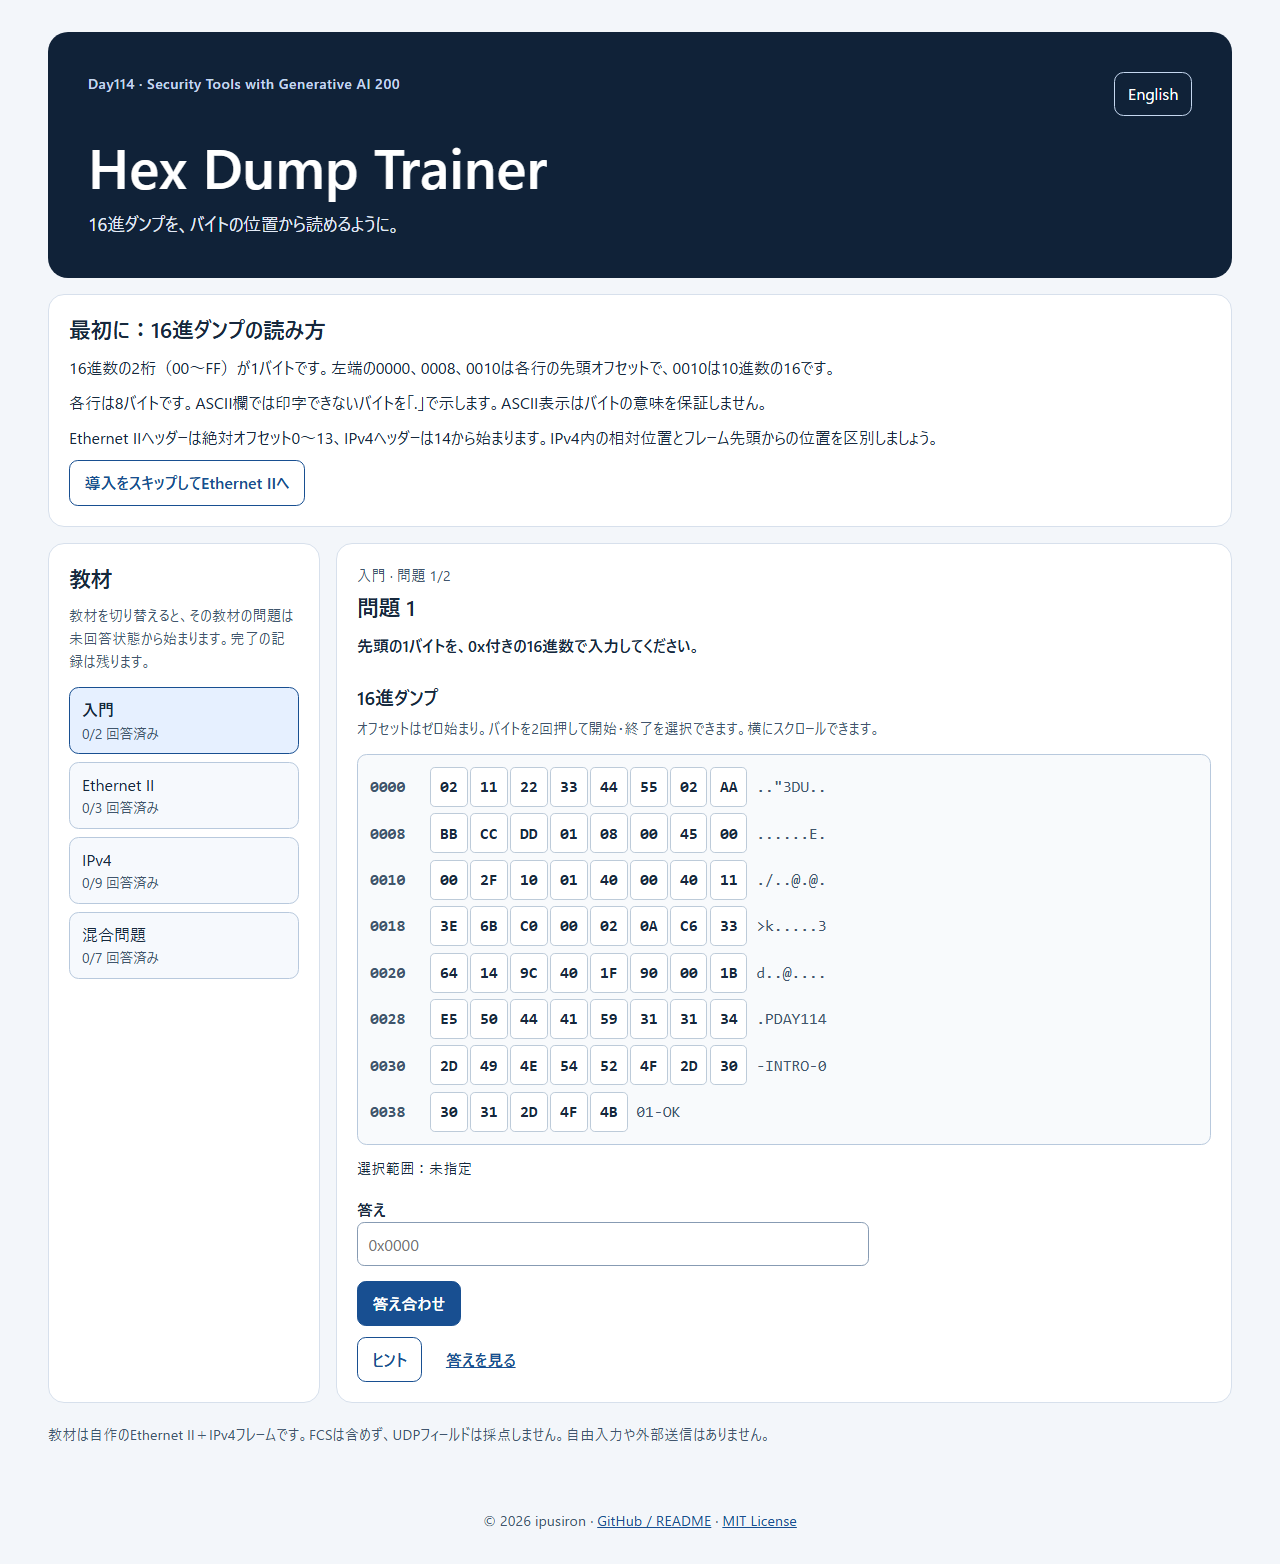
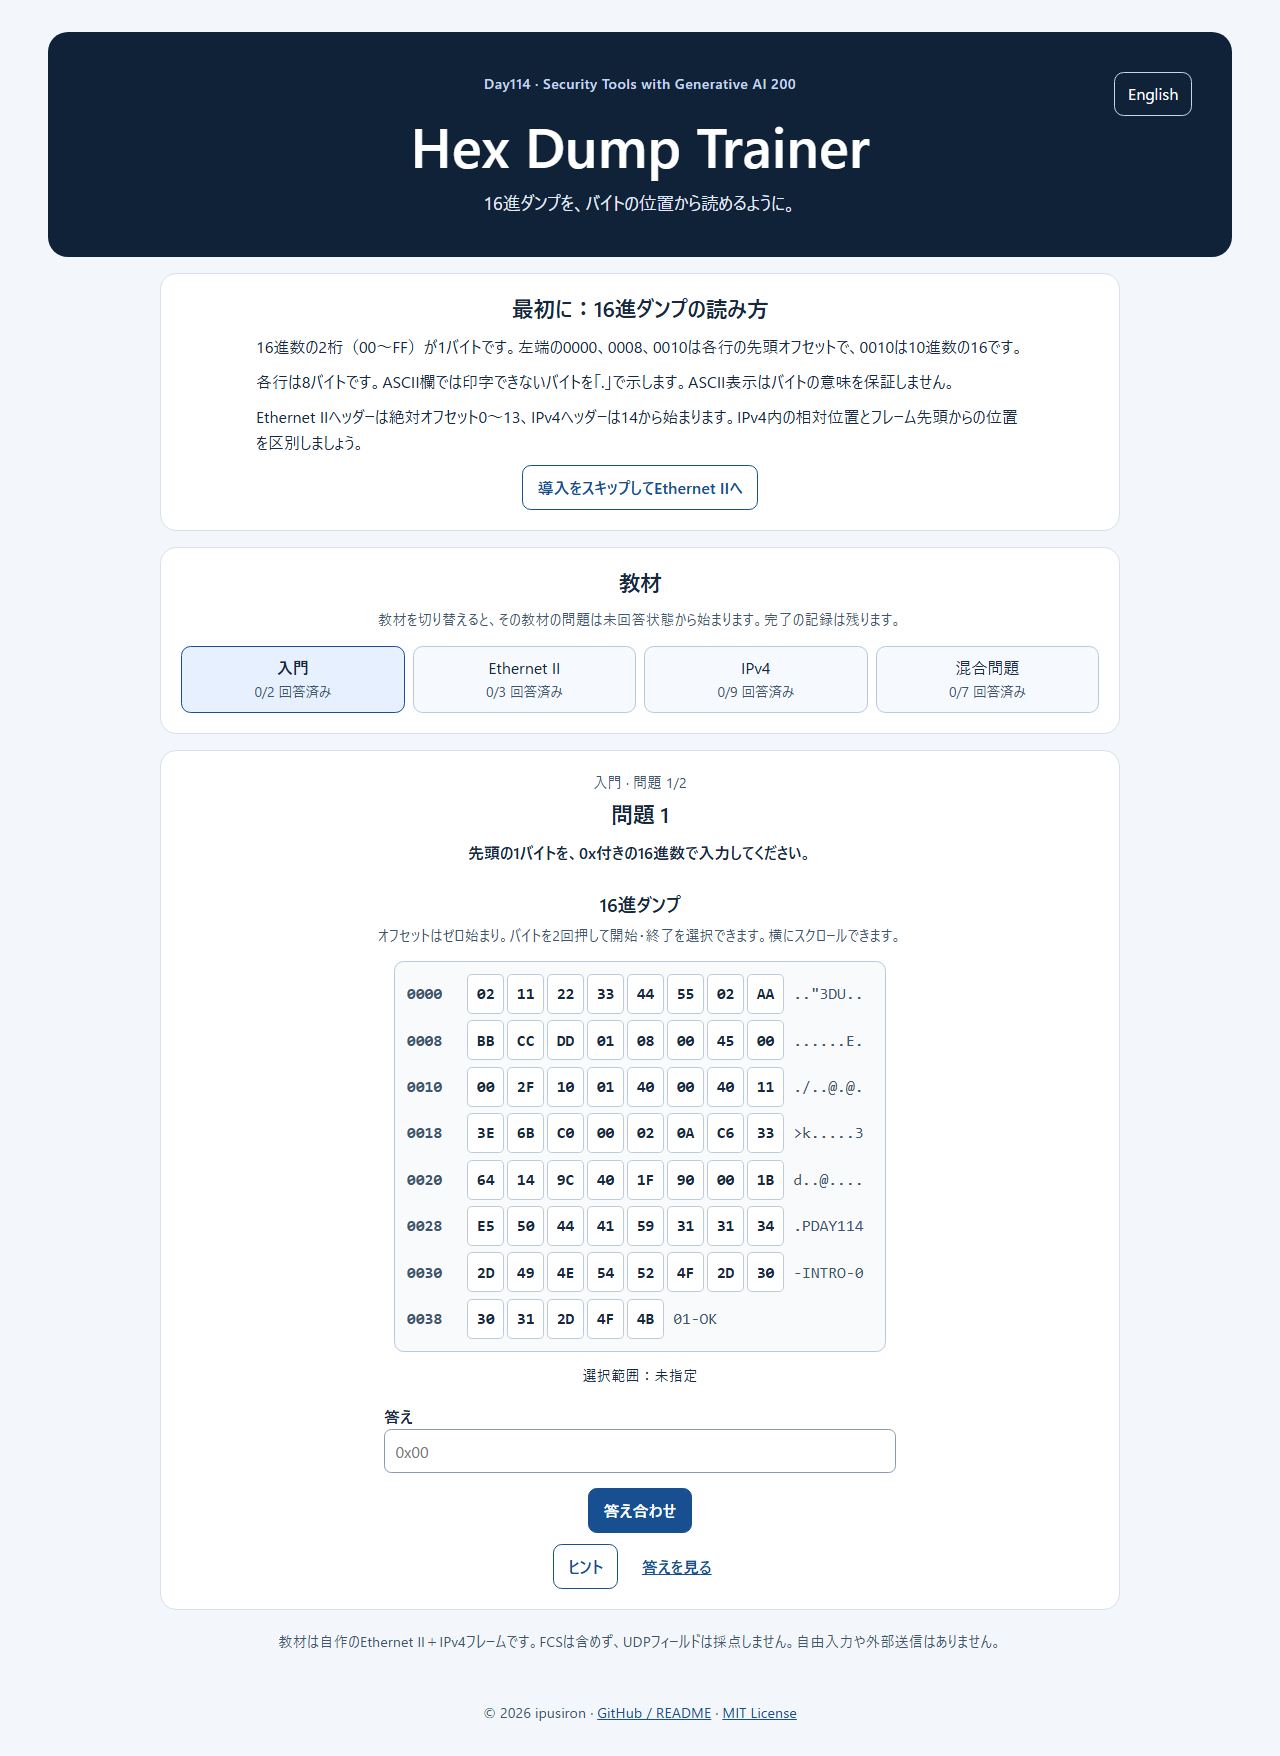
画面の中央軸を揃える

diff --git a/style.css b/style.css
@@ -57,13 +57,12 @@ a:focus-visible, button:focus-visible, input:focus-visible, .dump:focus-visible 
   border-radius: 1.25rem;
   background: #102238;
   color: #fff;
+  text-align: center;
 }
 
 .hero-top {
-  display: flex;
-  flex-wrap: wrap;
-  align-items: flex-start;
-  justify-content: space-between;
+  display: grid;
+  justify-items: center;
   gap: 0.75rem;
   margin-bottom: 1.25rem;
 }
@@ -103,7 +102,12 @@ h1 {
 }
 
 .guide {
-  margin-top: 1rem;
+  margin: 1rem auto 0;
+  text-align: center;
+}
+
+.guide, .workspace, .scope-note {
+  max-width: 60rem;
 }
 
 .panel {
@@ -121,13 +125,19 @@ h1 {
 }
 
 .guide p {
-  margin-bottom: 0.6rem;
+  max-width: 48rem;
+  margin: 0 auto 0.6rem;
+  text-align: left;
 }
 
 .workspace {
   display: grid;
   gap: 1rem;
-  margin-top: 1rem;
+  margin: 1rem auto 0;
+}
+
+.lessons, .exercise {
+  text-align: center;
 }
 
 .small-note {
@@ -149,7 +159,7 @@ h1 {
   border-radius: 0.6rem;
   background: #f6f9fd;
   color: #17283c;
-  text-align: left;
+  text-align: center;
 }
 
 .lesson-button[aria-current="true"] {
@@ -184,12 +194,15 @@ h1 {
 }
 
 .dump {
+  width: fit-content;
   max-width: 100%;
+  margin: 0 auto;
   overflow-x: auto;
   padding: 0.75rem;
   border: 1px solid #b8c9dd;
   border-radius: 0.6rem;
   background: #f8fafc;
+  text-align: left;
 }
 
 .dump-row {
@@ -264,12 +277,14 @@ h1 {
   display: grid;
   gap: 0.75rem;
   max-width: 32rem;
+  margin: 0 auto;
 }
 
 .range-fields label, .value-field label {
   display: grid;
   gap: 0.25rem;
   font-weight: 600;
+  text-align: left;
 }
 
 input {
@@ -284,6 +299,7 @@ input {
 
 .value-field {
   max-width: 32rem;
+  margin: 0 auto;
 }
 
 .primary-button, .secondary-button, .text-button {
@@ -319,6 +335,7 @@ input {
 .help-actions {
   display: flex;
   flex-wrap: wrap;
+  justify-content: center;
   gap: 0.5rem;
   margin-top: 0.7rem;
 }
@@ -345,11 +362,13 @@ input {
 }
 
 .solution {
-  margin-top: 1rem;
+  max-width: 40rem;
+  margin: 1rem auto 0;
   padding: 1rem;
   border: 1px solid #b5ddc0;
   border-radius: 0.6rem;
   background: #f3fbf5;
+  text-align: left;
 }
 
 .solution h3 {
@@ -381,9 +400,10 @@ input {
 }
 
 .scope-note {
-  margin-top: 1.25rem;
+  margin: 1.25rem auto 0;
   color: #40556d;
   font-size: 0.9rem;
+  text-align: center;
 }
 
 [hidden] {
@@ -404,14 +424,17 @@ input {
 
   .hero {
     padding: 2.5rem;
+    position: relative;
   }
 
-  .workspace {
-    grid-template-columns: minmax(13rem, 17rem) minmax(0, 1fr);
+  .language-button {
+    position: absolute;
+    top: 2.5rem;
+    right: 2.5rem;
   }
 
   .lesson-list {
-    grid-template-columns: 1fr;
+    grid-template-columns: repeat(4, minmax(0, 1fr));
   }
 
   .range-fields {
